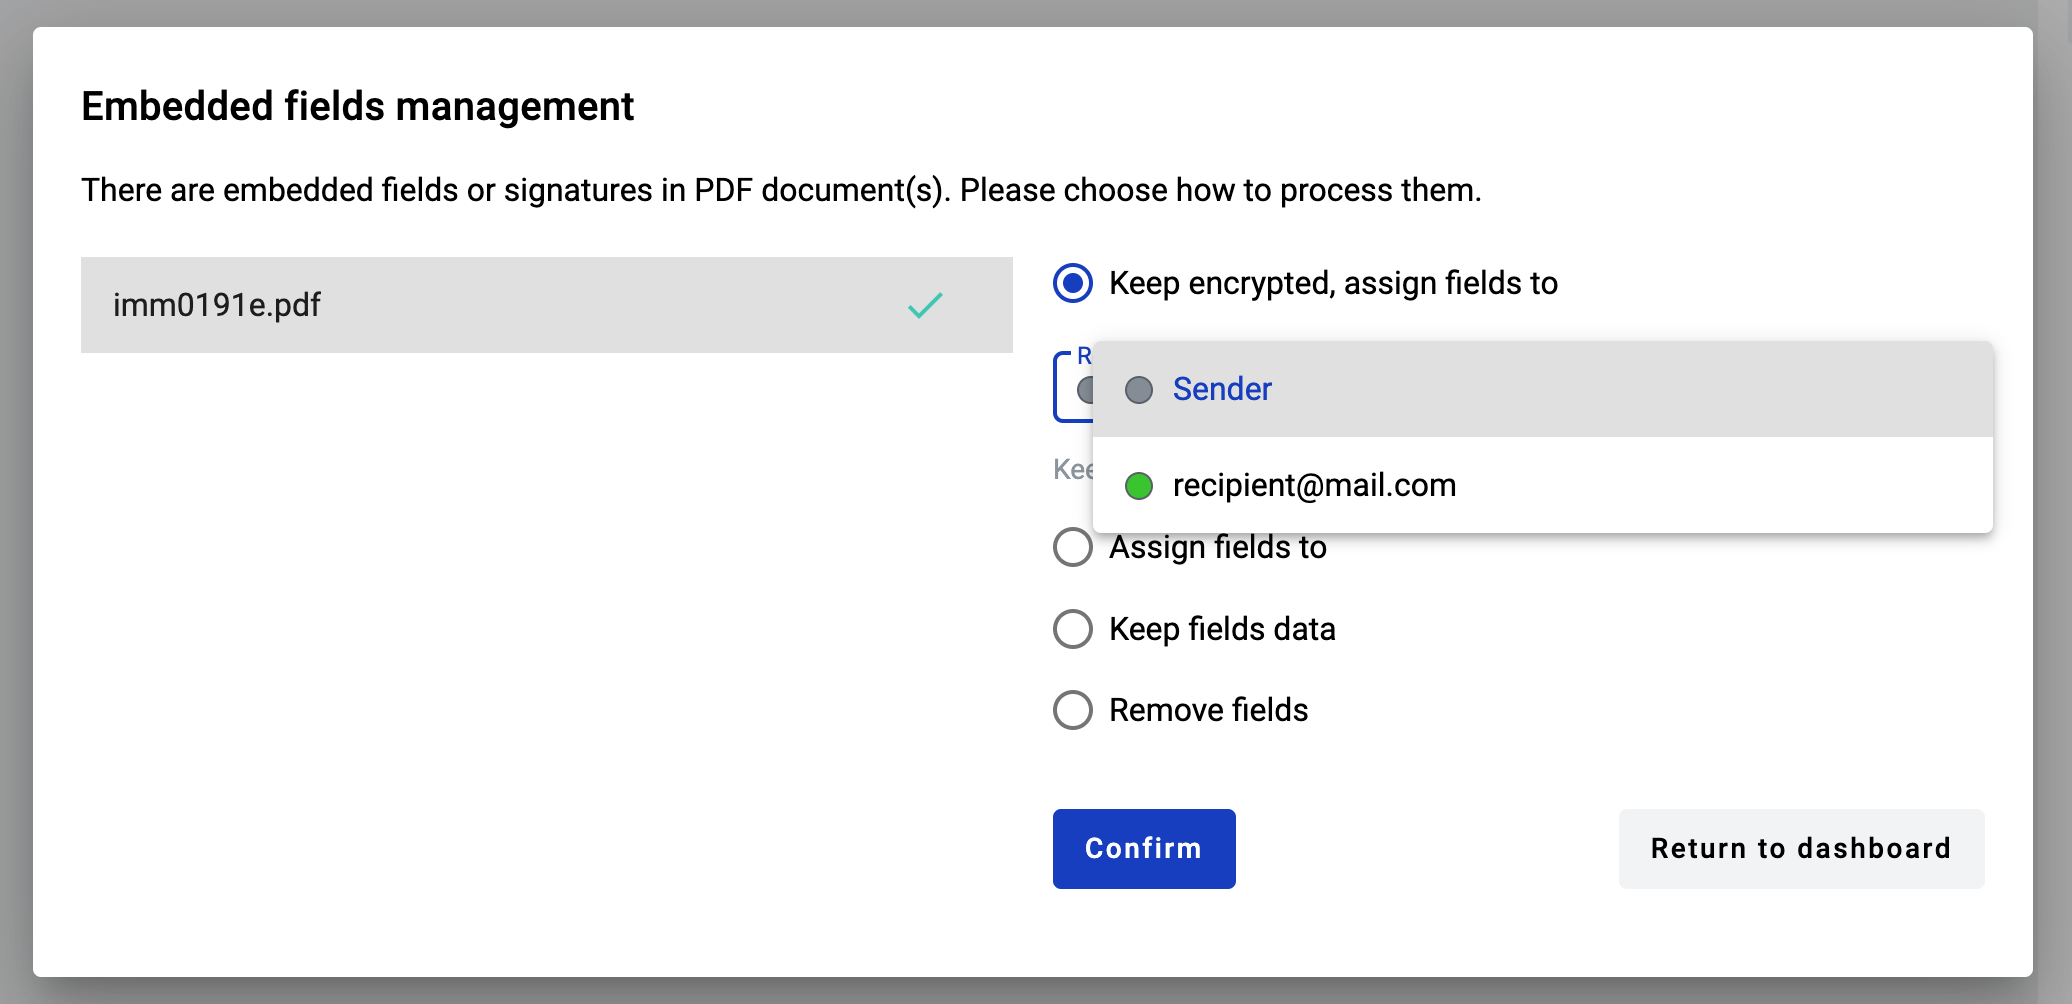
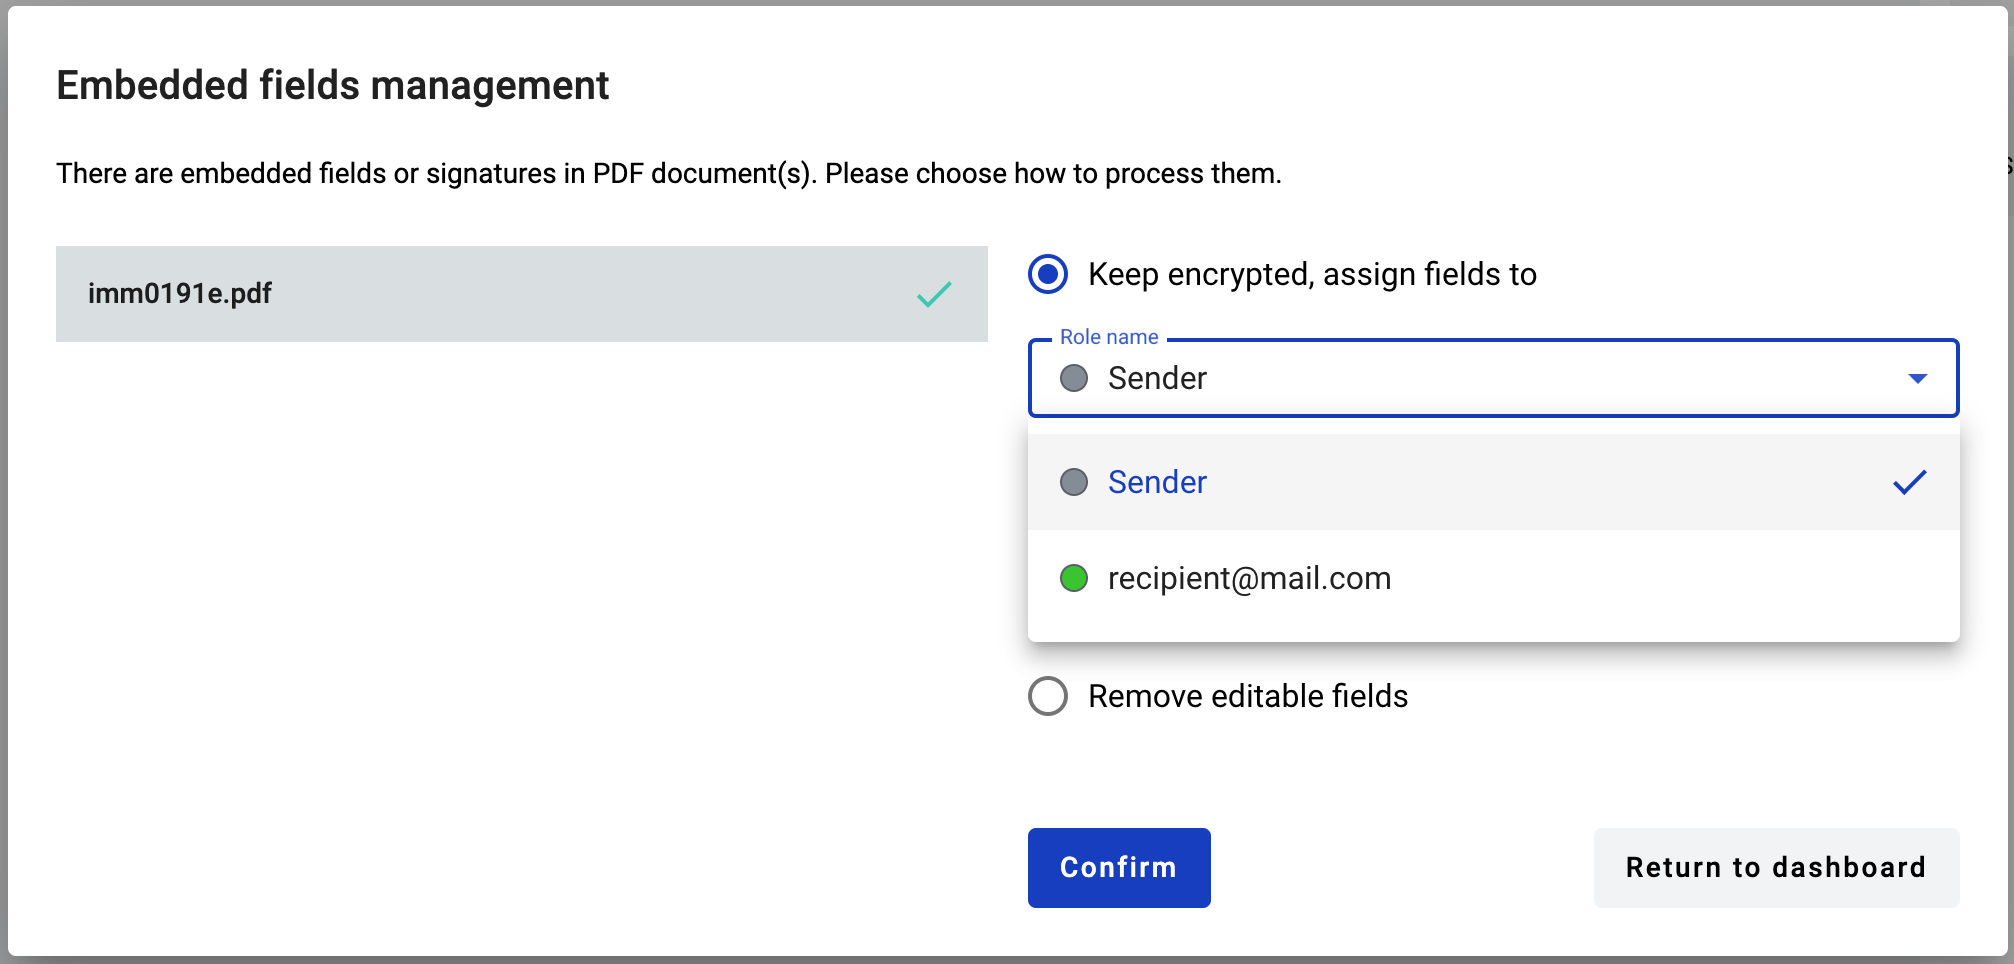
added info about embedded fields and updated screenshots (#251)

Changed region(s): [[0.0, 0.0, 1.0, 0.9959], [0.431, 0.249, 0.7696, 0.3112]]

diff --git a/docs/source/pages/howToWorkWithPlatform/mainApplication/templateList/templateManagement/documentManagementOnTemplate/pdfDocument/pdfDocument.rst b/docs/source/pages/howToWorkWithPlatform/mainApplication/templateList/templateManagement/documentManagementOnTemplate/pdfDocument/pdfDocument.rst
@@ -28,20 +28,22 @@ How to add a PDF document to template
 4. In the template editor you can edit document properties, such as role and optionality (only if no file was uploaded)
 5. You also can add QES/PAdES and Signature fields to such document
 
-How to clone a PDF document
-===========================
+How to add a PDF document with embedded fields
+==============================================
 
-1. Click "More" button in the right upper corner of the document
-2. Click "Clone" button in the menu
+If PDF document contains embedded fields, you will be prompted to choose how to handle these fields upon uploading.
 
-How to delete a PDF document
-============================
+.. image:: pic_pdfDocument/EmbeddedModalOptions.png
+   :width: 600
+   :align: center
 
-1. Click "More" button in the right upper corner of the document
-2. Click "Delete" button in the menu
+Depending on PDF file contents and encryption there are several upload options (only applicable options will be available for each file):
 
-PDF fields import
-=================
+- Keep signatures and fields = Only QES/PAdES fields will be allowed to create in the document.
+- Keep encrypted, assign fields to = Keep file encrypted. Creating fields in it will be restricted, except QES.
+- Assign fields to = Convert dynamic fields embedded in the document into WhiteDoc fields (if existing).
+- Keep editable fields data = Preserve editable fields embedded in the document in read-only state, remove signature and/or encryption. In this case all existing fields will be disabled and not converted in WhiteDoc format. New fields can be added to the document.
+- Remove editable fields = Remove embedded signatures, encryption, editable fields in the document. In this case any new fields can be added to the document.
 
 Embedded PDF fields can be converted to WhiteDoc dynamic fields. Please see conversion map below:
 
@@ -57,10 +59,15 @@ Embedded PDF fields can be converted to WhiteDoc dynamic fields. Please see conv
 
 .. note:: All imported fields except Choice inherit theirs optional/required attribute status from original PDF file.
 
-Depending on PDF file contents and encryption there are several upload options (only applicable options will be available for each file):
+How to clone a PDF document
+===========================
 
-1. If file is encrypted, encryption and can be preserved. In this case existing fields will be converted to WhiteDoc fields, but only new QES fields will be available for creation in such document
-2. Existing data and signatures can be preserved. In this case only QES and PAdES fields will be available for creation in such document
-3. All fields can be converted to WhiteDoc fields without preserving of encryption. In this case any new fields can also be added to the document. Please note that new role will be created for every PAdES signature if there are any
-4. Document can be kept in "as is" state. In this case all existing fields will be disabled and not converted in WhiteDoc format. New fields can be added to the 
-5. All existing fields and signatures can be removed from the document. In this case any new fields can be added to the document
+1. Click "More" button in the right upper corner of the document
+2. Click "Clone" button in the menu
+
+How to delete a PDF document
+============================
+
+1. Click "More" button in the right upper corner of the document
+2. Click "Delete" button in the menu
+

diff --git a/docs/source/pages/howToWorkWithPlatform/mainApplication/dashboard/quickSend/quickSend.rst b/docs/source/pages/howToWorkWithPlatform/mainApplication/dashboard/quickSend/quickSend.rst
@@ -91,12 +91,11 @@ How to import embedded PDF fields?
 
 2. Depending on the type of built-in fields you will see different options:
 
-- Keep signature = Only QES/PAdES fields will be allowed to create in the document.
-- Keep already existing data = Keep already existing data. Only QES/PAdES fields will be allowed to create in the document.
-- Keep encrypted, assign fields to = Keep file encrypted. Creating new fields in it will be restricted, only new QES fields will be available for creation. Existing fields can be assigned a selectable role.
-- Assign fields to = Convert dynamic fields embedded in the document into WhiteDoc fields (if existing) and assign them to a selectable role . Any new fields can be added to the document.
-- Keep fields data = Preserve dynamic fields embedded in the document in read-only state. Any new fields can be added to the document.
-- Remove fields = Remove dynamic fields embedded in the document. Any new fields can be added to the document.
+- Keep signatures and fields = Only QES/PAdES fields will be allowed to create in the document.
+- Keep encrypted, assign fields to = Keep file encrypted. Creating fields in it will be restricted, except QES.
+- Assign fields to = Convert dynamic fields embedded in the document into WhiteDoc fields (if existing).
+- Keep editable fields data = Preserve editable fields embedded in the document in read-only state, remove signature and/or encryption. In this case all existing fields will be disabled and not converted in WhiteDoc format. New fields can be added to the document.
+- Remove editable fields = Remove embedded signatures, encryption, editable fields in the document. In this case any new fields can be added to the document.
 
 .. note:: If the document contains more signatures than recipients Assign fields option will not be available.
 
@@ -119,3 +118,9 @@ How to import embedded PDF fields?
 - Barcode => currently is not supported, fields will be ignored
 
 .. note:: All imported fields inherit optional/required attribute status from the original PDF.
+
+5. If you are uploading multiple PDF documents with embedded fields, you will need to choose how to handle the fields for each document individually. You can do this by switching between the documents in the left part of the window.
+
+.. image:: pic_quickSend/EmbeddedActionOptionsMultiple.png
+   :width: 600
+   :align: center

diff --git a/docs/source/pages/howToWorkWithPlatform/mainApplication/envelope/externalDocumentOnEnvelope/externalDocumentOnEnvelope.rst b/docs/source/pages/howToWorkWithPlatform/mainApplication/envelope/externalDocumentOnEnvelope/externalDocumentOnEnvelope.rst
@@ -20,6 +20,30 @@ How to upload an external document
 
 4. To send envelope you should fill all other mandatory fields and upload all external documents assigned to your role
 
+How to upload an external document with embedded fields
+=======================================================
+
+1. Click on the upload zone
+
+.. image:: pic_externalDocument/ExternalDocument.png
+   :width: 600
+   :align: center
+
+2. Select a file
+3. Depending on the type of built-in fields you will see a modal window with different options:
+
+- Keep signatures and fields = Preserve editable fields embedded in the document in read-only state, signature, and/or encryption.
+- Keep editable fields data = Preserve editable fields embedded in the document in read-only state, remove signature and/or encryption.
+- Remove editable fields = Remove embedded signatures, encryption, editable fields in the document.
+
+.. image:: pic_externalDocument/ExternalDocumentEmbeddedModal.png
+   :width: 600
+   :align: center
+
+.. note:: If the external document contains E-ink signature the option "Keep signatures and fields" will be unavailable. In this case, it is impossible to retain built-in signatures.
+
+4. Depending on the selected option, the PDF document will be rendered, and you can continue working with the envelope in the usual manner.
+
 External document signing process
 =================================
 
